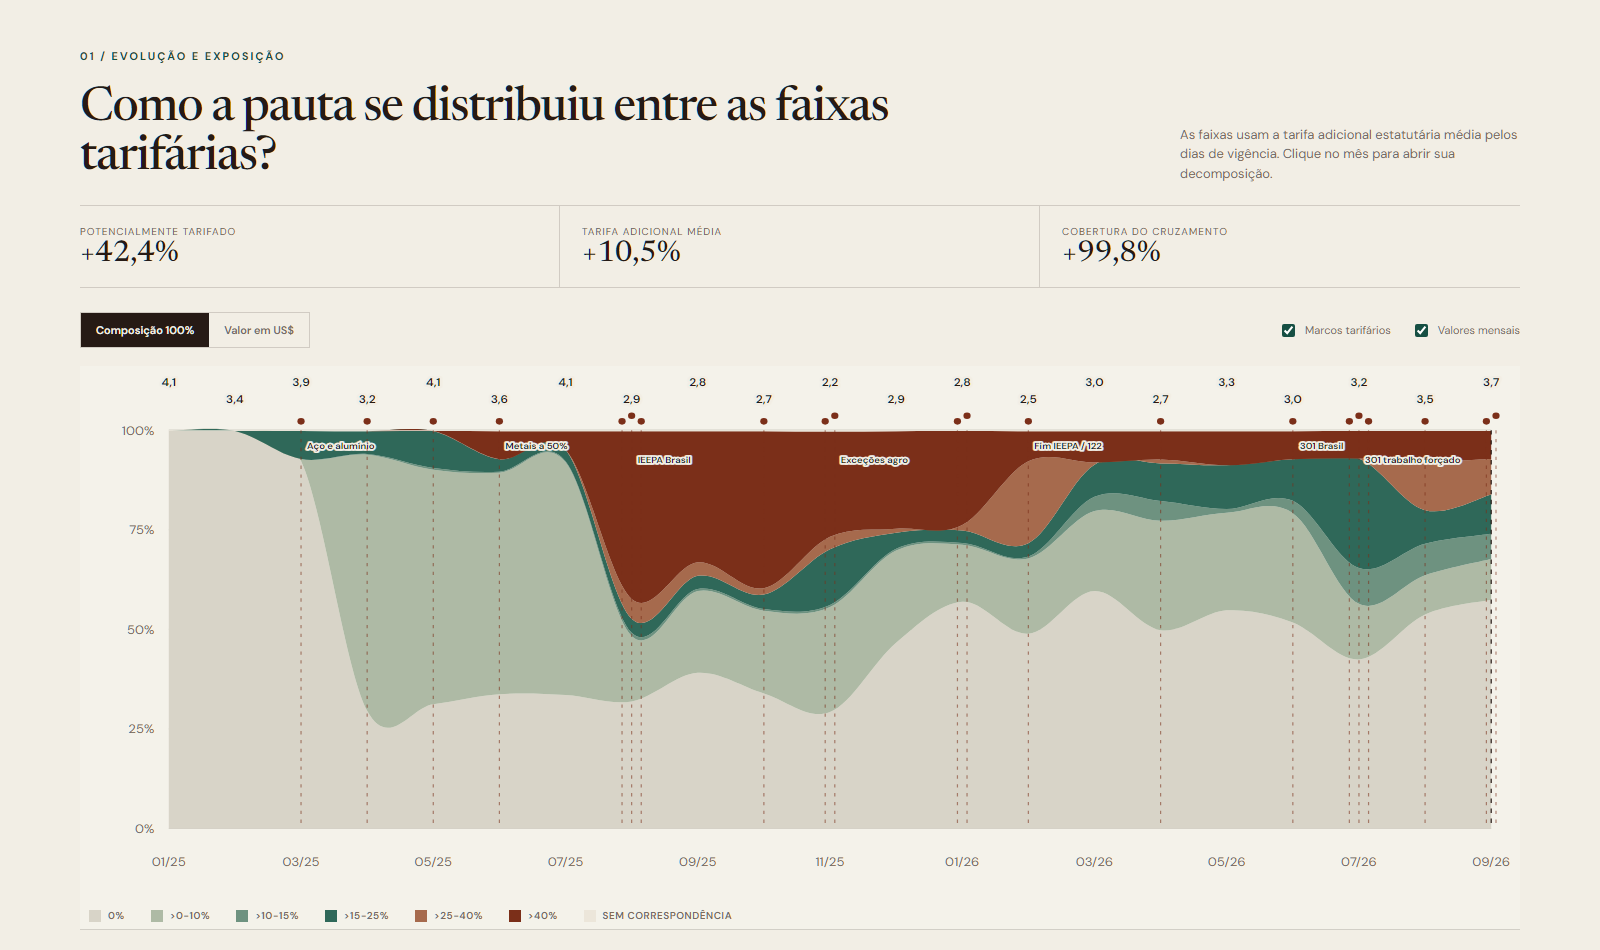
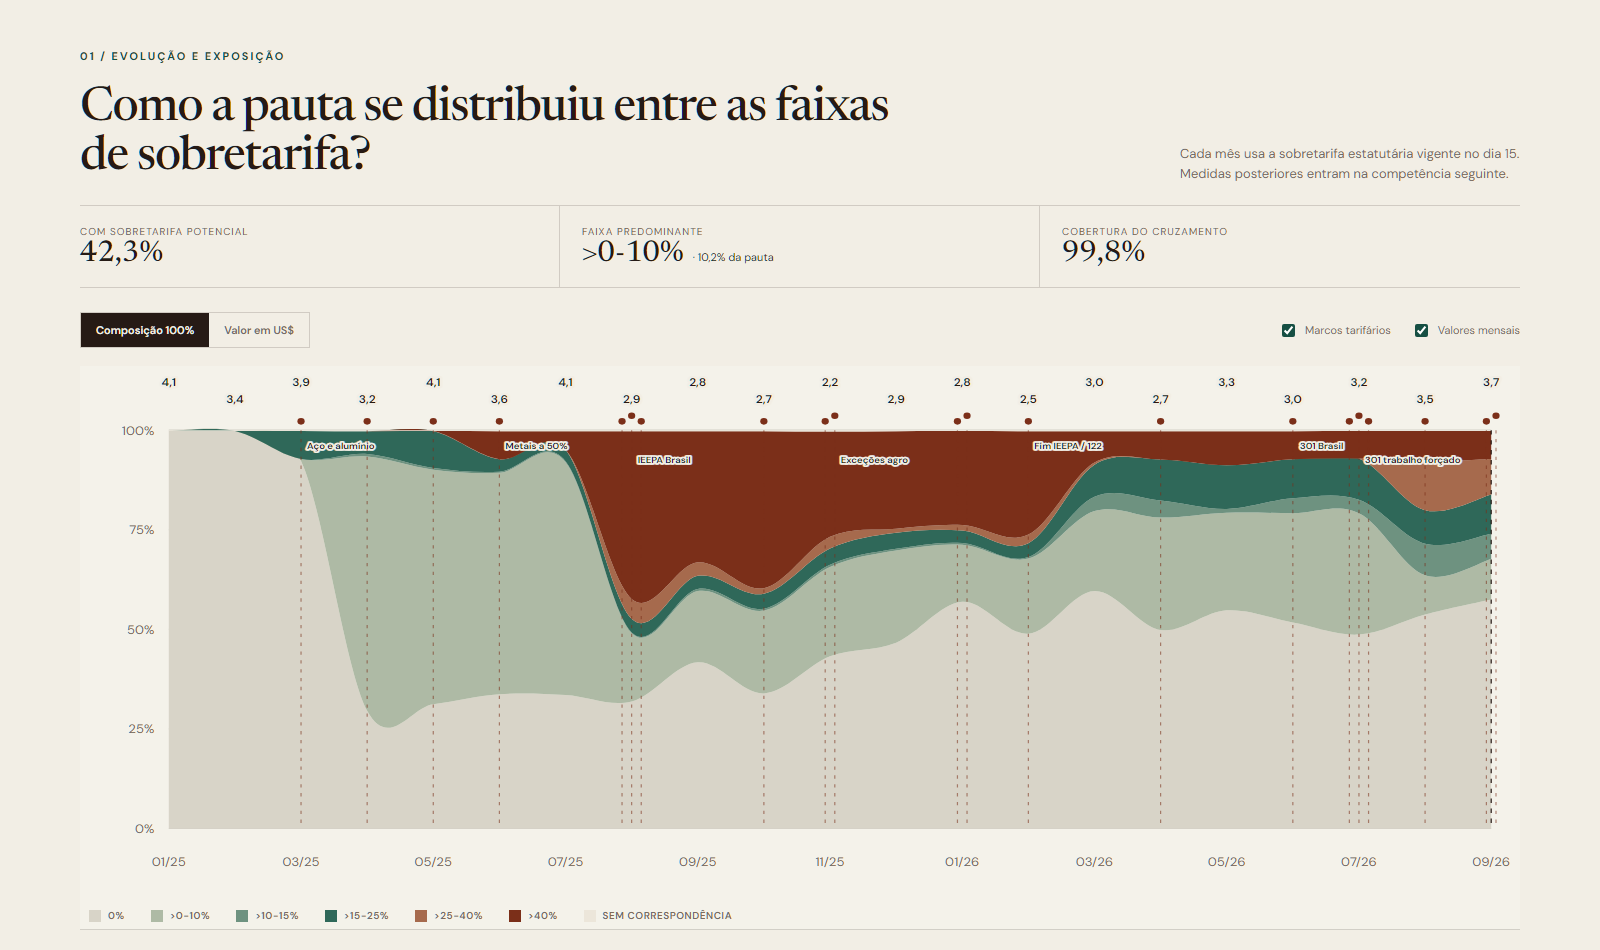
feat: align Yale example with monthly surcharge reference

diff --git a/sources/yale-tariff-rate-tracker/python/03_build_monthly_tariff_exposure.py b/sources/yale-tariff-rate-tracker/python/03_build_monthly_tariff_exposure.py
@@ -9,6 +9,7 @@ COMPONENTS = [
     "rate_232", "rate_301", "rate_s301br", "rate_s301fl", "rate_ieepa_recip",
     "rate_ieepa_fent", "rate_s122", "rate_section_201", "rate_other",
 ]
+MONTHLY_REFERENCE_DAY = 15
 
 
 def normalize_census(path: Path) -> pd.DataFrame:
@@ -30,29 +31,35 @@ def monthly_rates(rates: pd.DataFrame, periods: list[str]) -> pd.DataFrame:
         if column not in rates:
             rates[column] = 0
         rates[column] = pd.to_numeric(rates[column], errors="coerce").fillna(0)
+    rates = rates.sort_values(["hts10", "valid_from", "valid_until"]).reset_index(drop=True)
     out = []
     for period in periods:
         start, end = pd.Period(period, "M").start_time.normalize(), pd.Period(period, "M").end_time.normalize()
+        reference = start + pd.Timedelta(days=MONTHLY_REFERENCE_DAY - 1)
         active = rates[(rates.valid_from <= end) & (rates.valid_until >= start)].copy()
         active["days_in_force"] = ((active.valid_until.clip(upper=end) - active.valid_from.clip(lower=start)).dt.days + 1).clip(lower=0)
-        for column in ["total_additional", *COMPONENTS]:
-            active[f"weighted_{column}"] = active[column] * active["days_in_force"]
-        sums = active.groupby("hts10", as_index=False).agg(
+        active["weighted_total_additional"] = active["total_additional"] * active["days_in_force"]
+        auxiliary = active.groupby("hts10", as_index=False).agg(
             days=("days_in_force", "sum"),
-            **{f"sum_{column}": (f"weighted_{column}", "sum") for column in ["total_additional", *COMPONENTS]},
+            weighted_total_additional=("weighted_total_additional", "sum"),
         )
-        for column in ["total_additional", *COMPONENTS]:
-            sums[column] = sums[f"sum_{column}"].div(sums["days"]).fillna(0)
+        auxiliary["additional_rate_day_weighted"] = auxiliary["weighted_total_additional"].div(auxiliary["days"]).fillna(0)
+        auxiliary = auxiliary[["hts10", "additional_rate_day_weighted"]]
+        snapshot = rates[(rates.valid_from <= reference) & (rates.valid_until >= reference)].sort_values(["hts10", "valid_from"]).drop_duplicates("hts10", keep="last")
+        snapshot = snapshot[["hts10", "total_additional", "valid_from", *COMPONENTS]].rename(columns={
+            "total_additional": "additional_rate_effective", "valid_from": "rate_valid_from",
+        })
+        snapshot["rate_reference_date"] = reference
         eom = active[(active.valid_from <= end) & (active.valid_until >= end)].sort_values(["hts10", "valid_from"]).drop_duplicates("hts10", keep="last")
-        eom = eom[["hts10", "total_additional", "valid_from"]].rename(columns={"total_additional": "additional_rate_eom", "valid_from": "rate_valid_from"})
-        sums = sums[["hts10", "total_additional", *COMPONENTS]].rename(columns={"total_additional": "additional_rate_month"}).merge(eom, on="hts10", how="left")
-        sums.insert(0, "period", period)
-        out.append(sums)
+        eom = eom[["hts10", "total_additional"]].rename(columns={"total_additional": "additional_rate_eom"})
+        monthly = snapshot.merge(auxiliary, on="hts10", how="outer").merge(eom, on="hts10", how="outer")
+        monthly.insert(0, "period", period)
+        out.append(monthly)
     return pd.concat(out, ignore_index=True)
 
 
 def main() -> None:
-    parser = argparse.ArgumentParser(description="Join monthly Census imports to day-weighted Yale statutory additional rates.")
+    parser = argparse.ArgumentParser(description="Join monthly Census imports to Yale statutory surcharges using a day-15 monthly reference.")
     parser.add_argument("--census", required=True, help="CSV/CSV.GZ from Census example 07")
     parser.add_argument("--yale", required=True, help="Country-rate CSV.GZ from Yale example 02")
     parser.add_argument("--output", default="data/monthly_tariff_exposure.csv.gz")
@@ -64,7 +71,7 @@ def main() -> None:
     output = Path(args.output)
     output.parent.mkdir(parents=True, exist_ok=True)
     result.sort_values(["period", "htsus10"]).to_csv(output, index=False, compression="gzip" if output.suffix == ".gz" else None)
-    matched = result["additional_rate_month"].notna().mean()
+    matched = result["additional_rate_effective"].notna().mean()
     print(f"Saved {len(result):,} rows to {output}; HTSUS10 row coverage: {matched:.1%}")
 
 

diff --git a/sources/yale-tariff-rate-tracker/README.pt-BR.md b/sources/yale-tariff-rate-tracker/README.pt-BR.md
@@ -19,7 +19,7 @@ Módulo reutilizável para acessar os releases do [Tariff Rate Tracker](https://
 |---|---|---|
 | 01 | [Baixar o release mais recente](python/01_download_latest_release.py) | Resolve e baixa o ZIP oficial; grava um manifesto JSON |
 | 02 | [Extrair o painel de um país](python/02_extract_country_rates.py) | Filtra `actual/snapshots` por código Census do país e gera CSV.GZ |
-| 03 | [Construir a exposição tarifária mensal](python/03_build_monthly_tariff_exposure.py) | Cruza o exemplo Census 07 com taxas Yale ponderadas pelos dias de vigência |
+| 03 | [Construir a exposição mensal a sobretarifas](python/03_build_monthly_tariff_exposure.py) | Cruza o exemplo Census 07 com a taxa Yale vigente no dia 15 e preserva uma média auxiliar por dias |
 | 01-M | [Metadados do release em Power Query](power-query/01_latest_release_metadata.m) | Retorna tag, data e URL do ativo oficial |
 
 ## Uso rápido
@@ -37,13 +37,14 @@ O código `3510` representa o Brasil na classificação de países do Census usa
 
 O Census é mensal, enquanto o Yale registra intervalos diários. Para cada `mês × HTSUS10`:
 
-1. selecione os intervalos que intersectam o mês;
-2. conte os dias de interseção;
-3. calcule a média de `total_additional` ponderada pelos dias;
-4. associe a taxa ao valor mensal de importações para consumo (`CON_VAL_MO`);
-5. calcule médias da pauta ponderadas pelo valor importado.
+1. fixe o dia 15 como data de referência mensal;
+2. selecione o intervalo vigente nessa data para cada HTSUS10;
+3. use `total_additional` como `additional_rate_effective`, a métrica principal;
+4. medidas iniciadas até o dia 15 entram no próprio mês; medidas posteriores entram no mês seguinte;
+5. preserve `additional_rate_day_weighted` apenas como média auxiliar pelos dias de vigência;
+6. associe a taxa ao valor mensal de importações para consumo (`CON_VAL_MO`).
 
-Uma medida vigente desde 18 de agosto não deve ser aplicada retroativamente aos primeiros 17 dias. O resultado é uma **exposição estatutária mensal modelada**, e não os direitos efetivamente arrecadados.
+Uma medida iniciada em 18 de agosto entra na classificação principal de setembro. O resultado é uma **exposição mensal modelada a sobretarifas**, e não os direitos efetivamente arrecadados. O conceito não inclui tarifa-base, antidumping, direitos compensatórios ou medidas fora do tracker.
 
 ## Limites
 

diff --git a/sources/yale-tariff-rate-tracker/README.md b/sources/yale-tariff-rate-tracker/README.md
@@ -19,7 +19,7 @@ Reusable access module for The Budget Lab at Yale's [Tariff Rate Tracker](https:
 |---|---|---|
 | 01 | [Download latest release](python/01_download_latest_release.py) | Resolves and downloads the official ZIP; writes a JSON manifest |
 | 02 | [Extract one country panel](python/02_extract_country_rates.py) | Filters `actual/snapshots` by Census country code and writes CSV.GZ |
-| 03 | [Build monthly tariff exposure](python/03_build_monthly_tariff_exposure.py) | Joins Census example 07 to Yale rates weighted by days in force |
+| 03 | [Build monthly surcharge exposure](python/03_build_monthly_tariff_exposure.py) | Joins Census example 07 to the Yale rate in force on day 15; retains a day-weighted auxiliary field |
 | 01-M | [Release metadata in Power Query](power-query/01_latest_release_metadata.m) | Returns the official tag, date and asset URL |
 
 ## Quick start
@@ -34,7 +34,7 @@ Country code `3510` identifies Brazil in the Census country classification used 
 
 ## Joining to Census data
 
-Census trade data are monthly; Yale rates are interval-based. For each `month × HTSUS10`, intersect the validity intervals with the month, weight `total_additional` by the number of active calendar days, then weight product rates by monthly imports for consumption (`CON_VAL_MO`). This is modeled monthly statutory exposure, not collected duties.
+Census trade data are monthly; Yale rates are interval-based. For each `month × HTSUS10`, the primary field is `total_additional` in force on day 15. Measures beginning through day 15 enter that month; later measures enter the following month. `additional_rate_day_weighted` is retained only as an auxiliary field and does not determine the dashboard bands. This is modeled statutory surcharge exposure, not collected duties, and excludes base tariffs, antidumping, countervailing duties and measures outside the tracker.
 
 ## Limitations
 

diff --git a/README.pt-BR.md b/README.pt-BR.md
@@ -54,7 +54,7 @@ Repositório: `united-states-census-imports-api-showcase`
 
 [![Monitor Brasil × tarifas dos EUA](docs/assets/us-brazil-tariff-monitor.png)](https://feliperamon123.github.io/us-brazil-tariff-monitor/)
 
-O [monitor Brasil × tarifas dos EUA](https://github.com/FelipeRamon123/us-brazil-tariff-monitor) é uma aplicação interativa bilíngue que cruza as importações mensais para consumo do Census com o painel HTSUS10 × país do Yale. Ele demonstra a regra de alinhamento temporal, a exposição da pauta por faixas de tarifa adicional e os produtos que explicam as variações mensais.
+O [monitor Brasil × tarifas dos EUA](https://github.com/FelipeRamon123/us-brazil-tariff-monitor) é uma aplicação interativa bilíngue que cruza as importações mensais para consumo do Census com o painel HTSUS10 × país do Yale. A classificação mensal principal usa a sobretarifa vigente no dia 15, mantendo a média por dias apenas como campo auxiliar da base.
 
 **[Abrir o dashboard →](https://feliperamon123.github.io/us-brazil-tariff-monitor/)** · [Repositório da showcase](https://github.com/FelipeRamon123/us-brazil-tariff-monitor)
 

diff --git a/README.md b/README.md
@@ -54,7 +54,7 @@ Repository: `united-states-census-imports-api-showcase`
 
 [![Brazil × U.S. tariffs monitor](docs/assets/us-brazil-tariff-monitor.png)](https://feliperamon123.github.io/us-brazil-tariff-monitor/)
 
-The [Brazil × U.S. tariffs monitor](https://github.com/FelipeRamon123/us-brazil-tariff-monitor) is a bilingual interactive application joining monthly Census imports for consumption to Yale's HTSUS10 × country panel. It demonstrates temporal alignment, import-basket exposure by additional-rate band and the products driving each monthly change.
+The [Brazil × U.S. tariffs monitor](https://github.com/FelipeRamon123/us-brazil-tariff-monitor) is a bilingual interactive application joining monthly Census imports for consumption to Yale's HTSUS10 × country panel. Its primary monthly classification uses the statutory surcharge in force on day 15, while retaining the day-weighted rate only as an auxiliary dataset field.
 
 **[Open the live dashboard →](https://feliperamon123.github.io/us-brazil-tariff-monitor/)** · [Showcase repository](https://github.com/FelipeRamon123/us-brazil-tariff-monitor)
 
